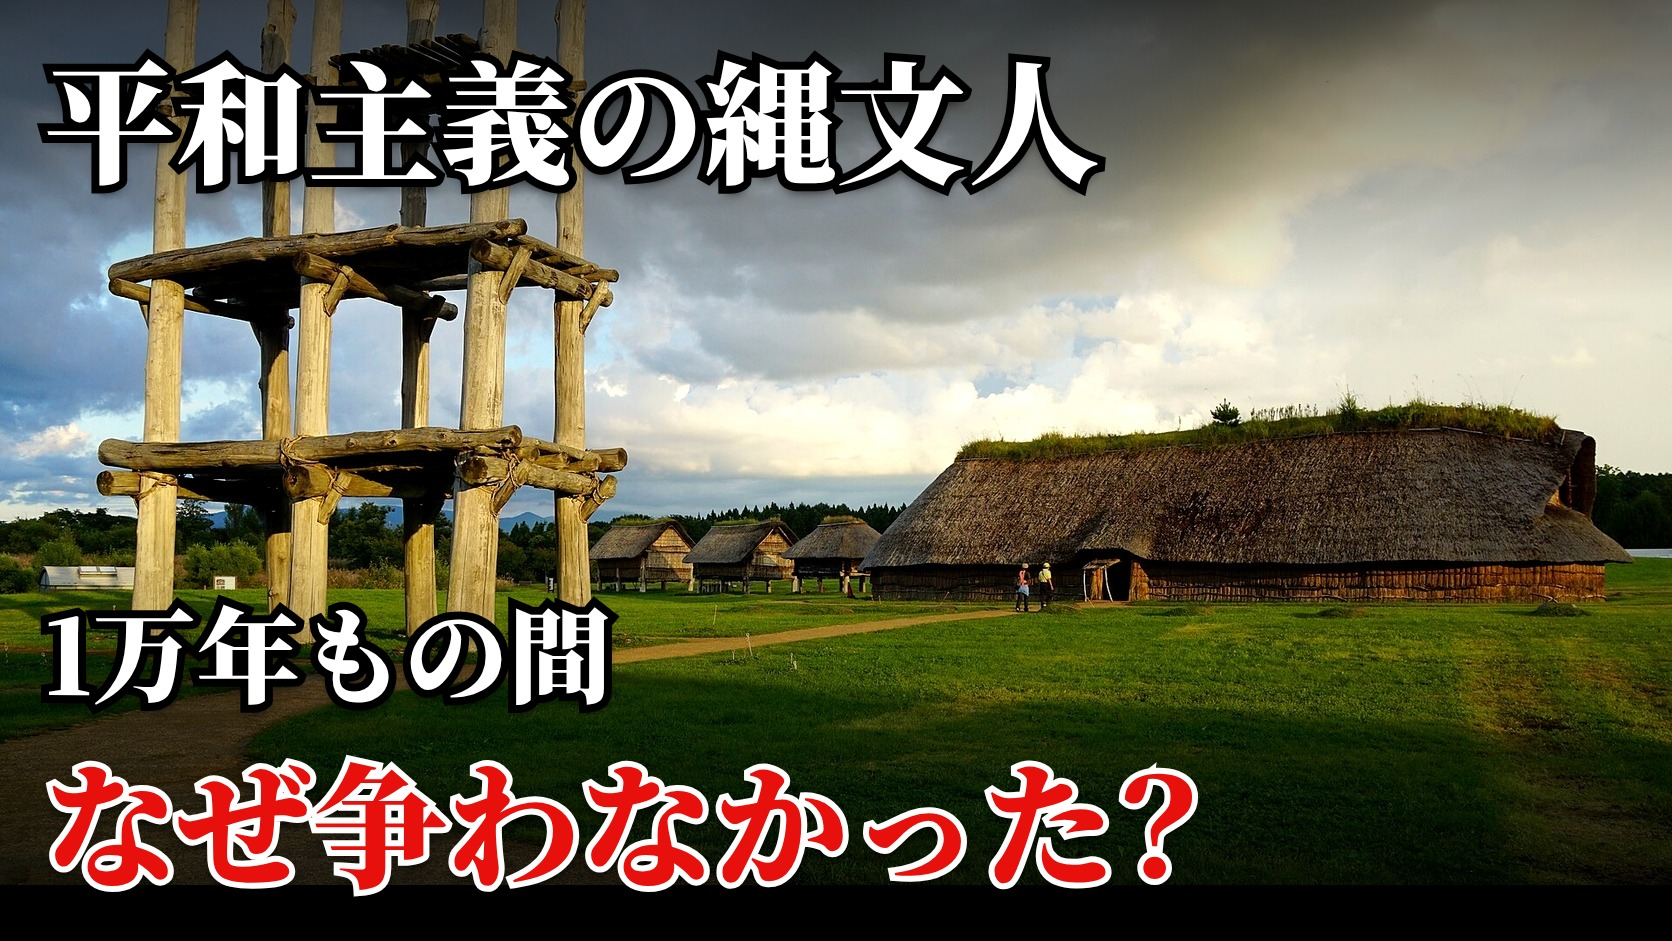
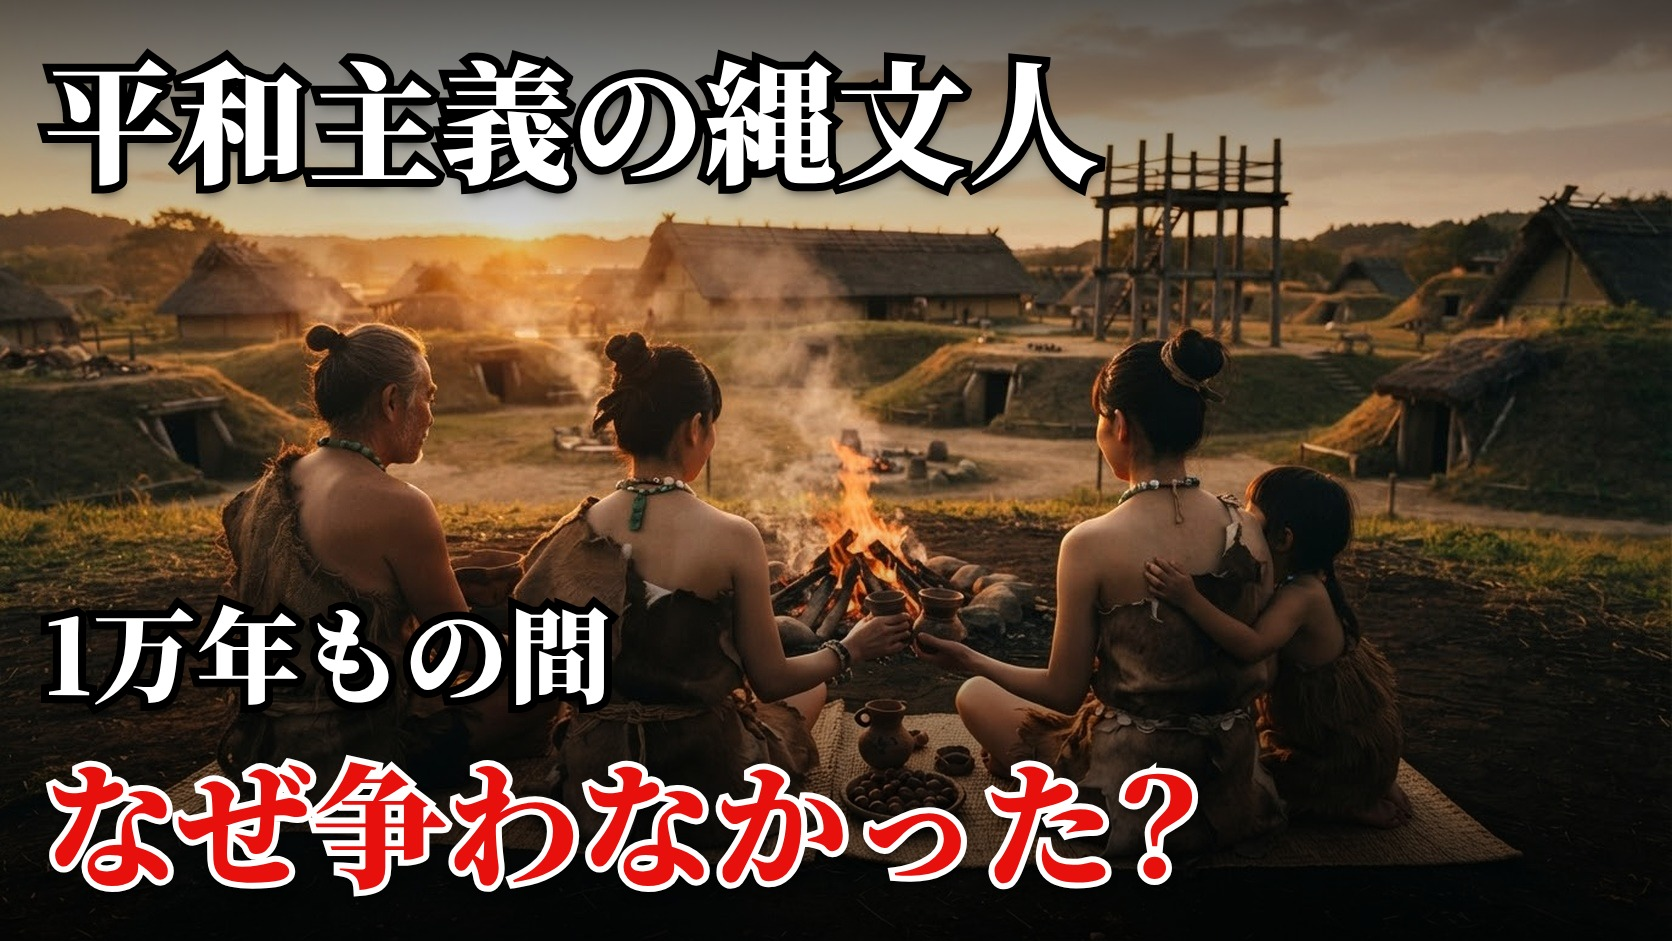
縄文人: サムネの背景をGeminiの画像に差し替え（写真版も残す）
Claude-Session: https://claude.ai/code/session_01BYpZQXYNUwHTnyuBiz7NfV

diff --git a/habi-jomon/サムネ/jgen.py b/habi-jomon/サムネ/jgen.py
@@ -20,9 +20,9 @@ def line(txt,top,size,kind):
     return f'<div class="t rb" style="top:{top}px;font-size:{size}px">{txt}</div>\n<div class="t r" style="top:{top}px;font-size:{size}px">{txt}</div>\n'
 Q='<span class=q>？</span>'
 pages={
- 'j1':('j1.jpg', line('1万年続いた縄文文化',50,132,'w')+line('消滅させたのは何'+Q,736,158,'r')),
- 'j2':('j2.jpg', line('平和主義の縄文人',50,132,'w')+line('1万年もの間',598,104,'w')+line('なぜ争わなかった'+Q,752,134,'r')),
- 'j3':('j3.jpg', '<div class=band></div><div class=tag>速報</div><div class=gw>縄文人のDNA</div>\n'+line('遺伝子が語る',598,104,'w')+line('1万年も生き延びた理由',752,134,'r')),
+ 'j1':('g1.jpg', line('1万年続いた縄文文化',50,132,'w')+line('消滅させたのは何'+Q,736,158,'r')),
+ 'j2':('g2.jpg', line('平和主義の縄文人',50,132,'w')+line('1万年もの間',598,104,'w')+line('なぜ争わなかった'+Q,752,134,'r')),
+ 'j3':('g3.jpg', '<div class=band></div><div class=tag>速報</div><div class=gw>縄文人のDNA</div>\n'+line('遺伝子が語る',598,104,'w')+line('1万年も生き延びた理由',752,134,'r')),
 }
 for k,(bg,body) in pages.items():
     open(k+'.html','w').write(HEAD.replace('BG',bg)+body+'</body></html>')

diff --git a/habi-jomon/サムネ案.md b/habi-jomon/サムネ案.md
@@ -59,3 +59,4 @@
 - 背景は本編で使った写真：①雪の大湯環状列石（掬茶 / CC BY-SA 4.0。暗く冷たい色にし、空だけ夕焼け色）②三内丸山遺跡の大型掘立柱建物（663highland / CC BY 2.5）③遮光器土偶（davide ferro / CC BY 2.0。顔に文字を重ねない）
 - 文字は卑弥呼の鏡と同じ：Noto Serif JP Black、左端そろえ、白＋黒フチ／赤＋白フチ、？は全角を詰める。③の速報帯だけ Noto Sans JP Black
 - 概要欄のサムネイルのクレジットも写真の出典に変更
+- 2026-11-28 更新：背景を Gemini の画像に差し替え（本人の希望）。写真版は サムネ/写真版-*.jpg に残す。①③は生成画像の上部に継ぎ目があったので、明るさを合わせてぼかして消した。概要欄のサムネのクレジットは「画像生成AI（Google Gemini）で制作」

diff --git a/habi-jomon/youtube.md b/habi-jomon/youtube.md
@@ -64,7 +64,7 @@
 ▼クレジット
 ナレーション：VOICEVOX:玄野武宏
 BGM・効果音：オリジナル
-サムネイル：本編の写真（大湯環状列石：掬茶 / CC BY-SA 4.0、三内丸山遺跡：663highland / CC BY 2.5、遮光器土偶：davide ferro / CC BY 2.0）をもとに作成
+サムネイル：画像生成AI（Google Gemini）で制作
 地図：Mapzen Terrain Tiles（SRTM ほか）の標高データをもとに作成
 写真・資料（Wikimedia Commons ほか）
 CC BY-SA 4.0：掬茶、Opqr、Marho、Indiana jo、Mccunicano、Ismoon、Fred Cherrygarden、ブルーノ・プラス、Totti、Kasakasa719、Michael Gunther、Phonon.b、Pekachu、Bariston、G41rn8、Koda6029、Alpsdake、Miyuki Meinaka、NevinThompson、そらみみ、Wc018、Asturio Cantabrio、Komoro no kaze、Aqua Regia 9278
